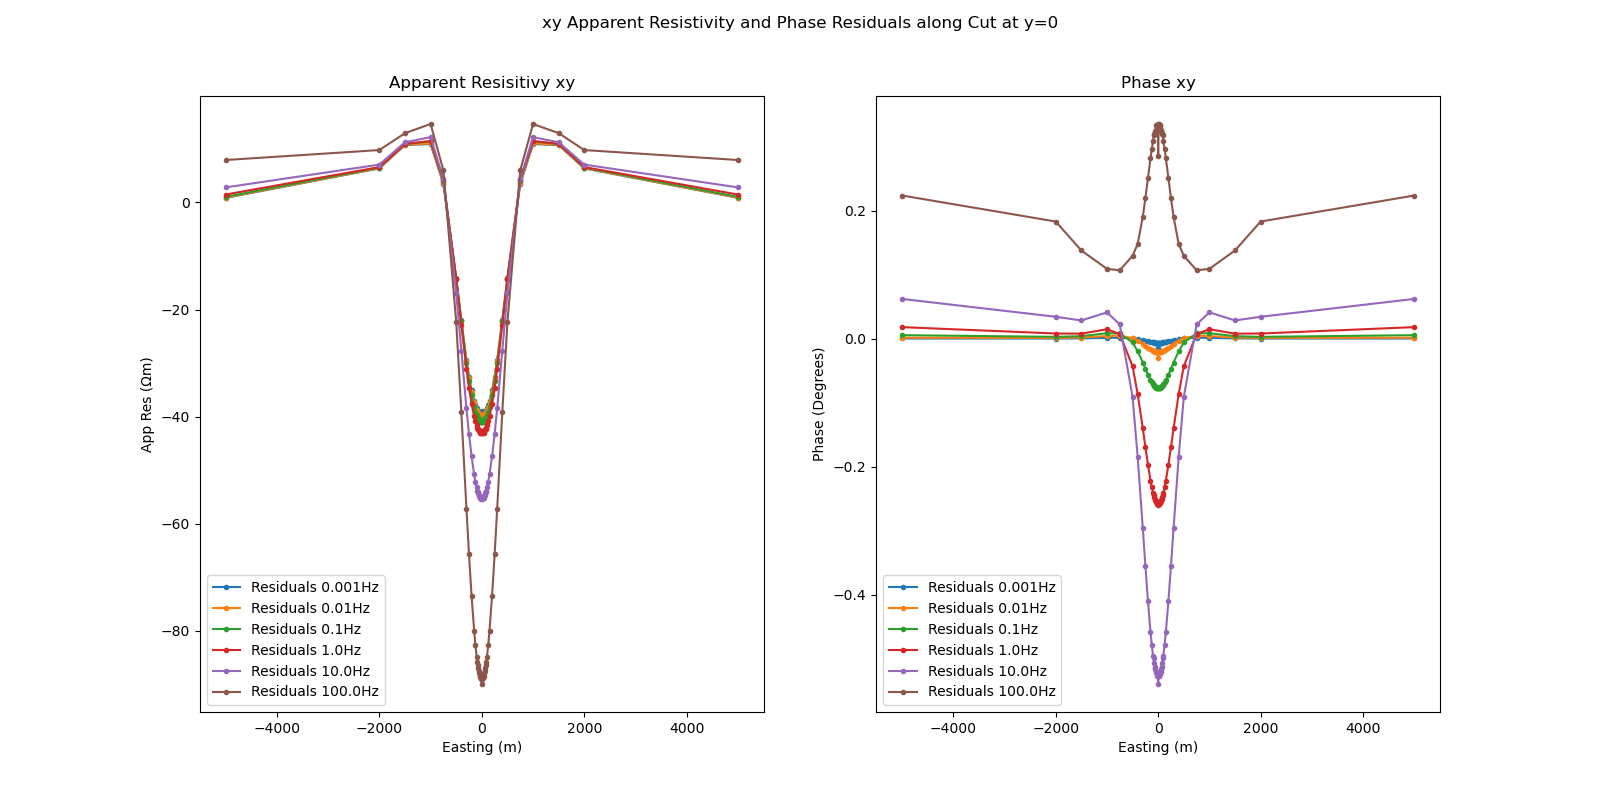
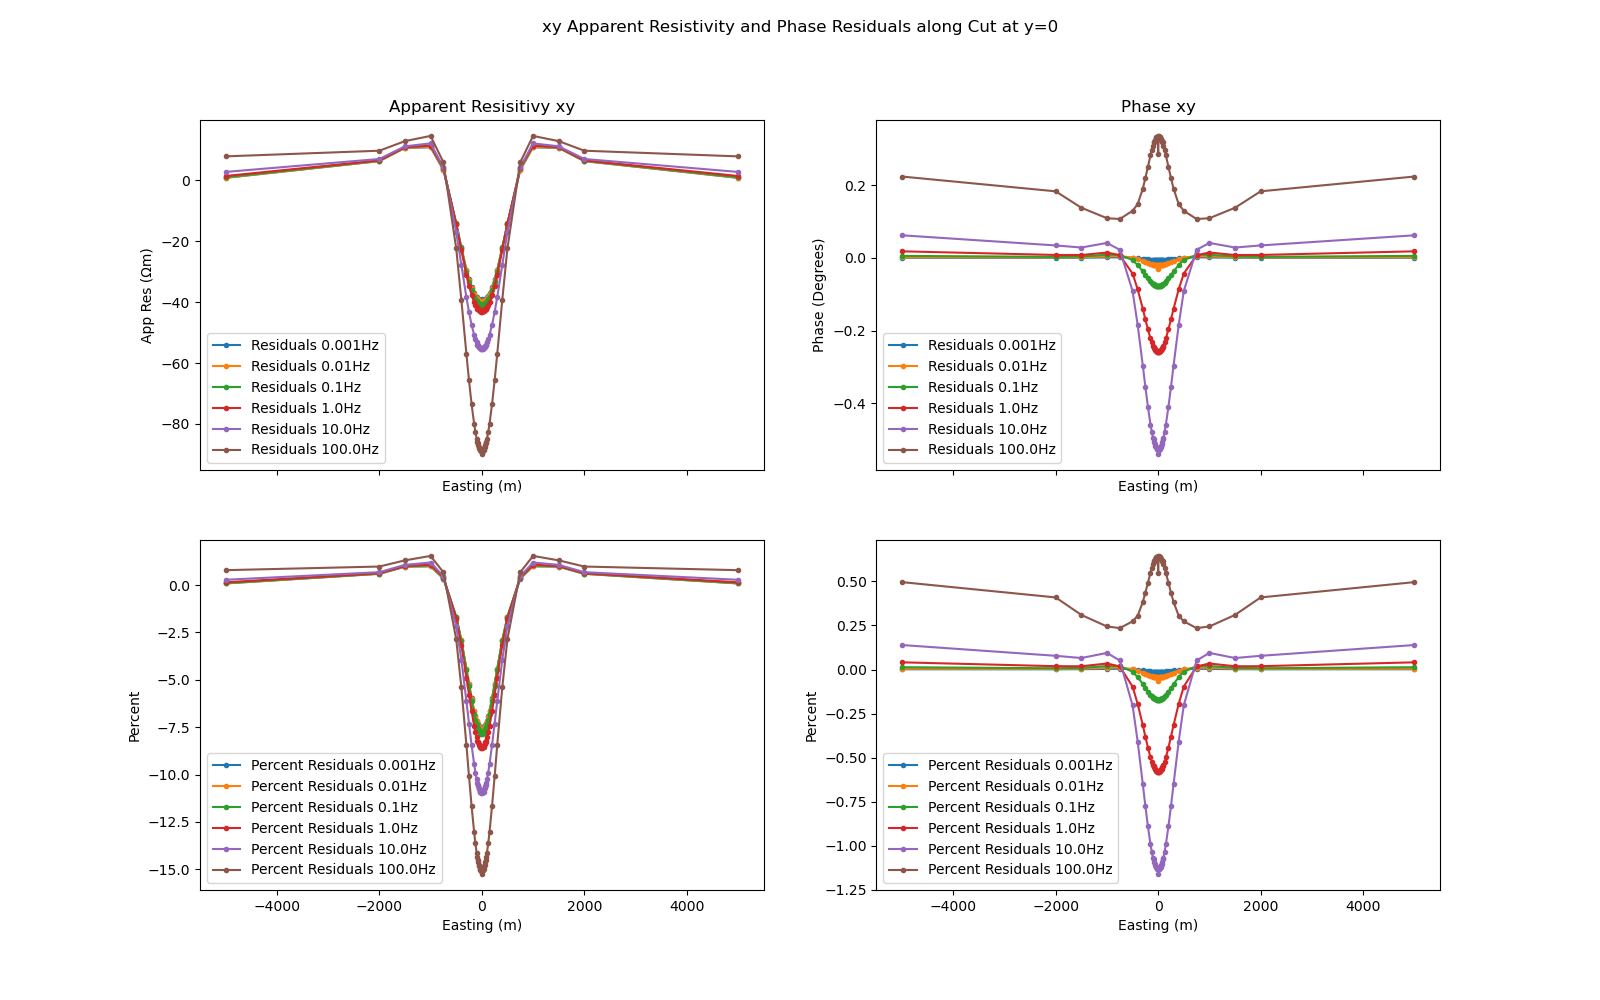
Percent residual plotting

diff --git a/plot_mt_results.py b/plot_mt_results.py
@@ -110,12 +110,14 @@ plt.savefig("figure_out/xyCompare.png")
 # Apparent resisitivty and phase residuals xy
 # ======================
 
-fig, axes = plt.subplots(1, 2, figsize=(16, 8), sharex=True)
+fig, axes = plt.subplots(2, 2, figsize=(16, 10), sharex=True)
 axes = axes.flatten()
 
 for i in plot_freqs_ind:
     axes[0].plot(x_cut, data[i, 2, 22::45]-Adata[i, :, 2], '.-', label=f"Residuals {freqs[i]}Hz")
     axes[1].plot(x_cut, data[i, 3, 22::45]-Adata[i, :, 3], '.-', label=f"Residuals {freqs[i]}Hz")
+    axes[2].plot(x_cut, 100*(data[i, 2, 22::45]-Adata[i, :, 2])/data[i, 2, 22::45], '.-', label=f"Percent Residuals {freqs[i]}Hz")
+    axes[3].plot(x_cut, 100*(data[i, 3, 22::45]-Adata[i, :, 3])/data[i, 3, 22::45], '.-', label=f"Percent Residuals {freqs[i]}Hz")
 
 axes[0].set_title("Apparent Resisitivy xy")
 axes[0].set_xlabel('Easting (m)')
@@ -125,6 +127,12 @@ axes[1].set_title("Phase xy")
 axes[1].set_xlabel('Easting (m)')
 axes[1].set_ylabel('Phase (Degrees)')
 axes[1].legend()
+axes[2].set_xlabel('Easting (m)')
+axes[2].set_ylabel('Percent')
+axes[2].legend()
+axes[3].set_xlabel('Easting (m)')
+axes[3].set_ylabel('Percent')
+axes[3].legend()
 plt.suptitle("xy Apparent Resistivity and Phase Residuals along Cut at y=0")
 plt.savefig("figure_out/xyResiduals.png")
 
@@ -160,12 +168,14 @@ plt.savefig("figure_out/yxCompare.png")
 # Apparent resisitivty and phase residuals yx
 # ======================
 
-fig, axes = plt.subplots(1, 2, figsize=(16, 8), sharex=True)
+fig, axes = plt.subplots(2, 2, figsize=(16, 10), sharex=True)
 axes = axes.flatten()
 
 for i in plot_freqs_ind:
     axes[0].plot(x_cut, data[i, 6, 22::45]-Adata[i, :, 6], '.-', label=f"Residuals {freqs[i]}Hz")
     axes[1].plot(x_cut, data[i, 7, 22::45]-Adata[i, :, 7], '.-', label=f"Residuals {freqs[i]}Hz")
+    axes[2].plot(x_cut, 100*(data[i, 6, 22::45]-Adata[i, :, 6])/data[i, 6, 22::45], '.-', label=f"Percent Residuals {freqs[i]}Hz")
+    axes[3].plot(x_cut, 100*(data[i, 7, 22::45]-Adata[i, :, 7])/data[i, 7, 22::45], '.-', label=f"Percent Residuals {freqs[i]}Hz")
 
 axes[0].set_title("Apparent Resisitivy yx")
 axes[0].set_xlabel('Easting (m)')
@@ -175,5 +185,11 @@ axes[1].set_title("Phase yx")
 axes[1].set_xlabel('Easting (m)')
 axes[1].set_ylabel('Phase (Degrees)')
 axes[1].legend()
+axes[2].set_xlabel('Easting (m)')
+axes[2].set_ylabel('Percent')
+axes[2].legend()
+axes[3].set_xlabel('Easting (m)')
+axes[3].set_ylabel('Percent')
+axes[3].legend()
 plt.suptitle("yx Apparent Resistivity and Phase Residuals along Cut at y=0")
 plt.savefig("figure_out/yxResiduals.png")
